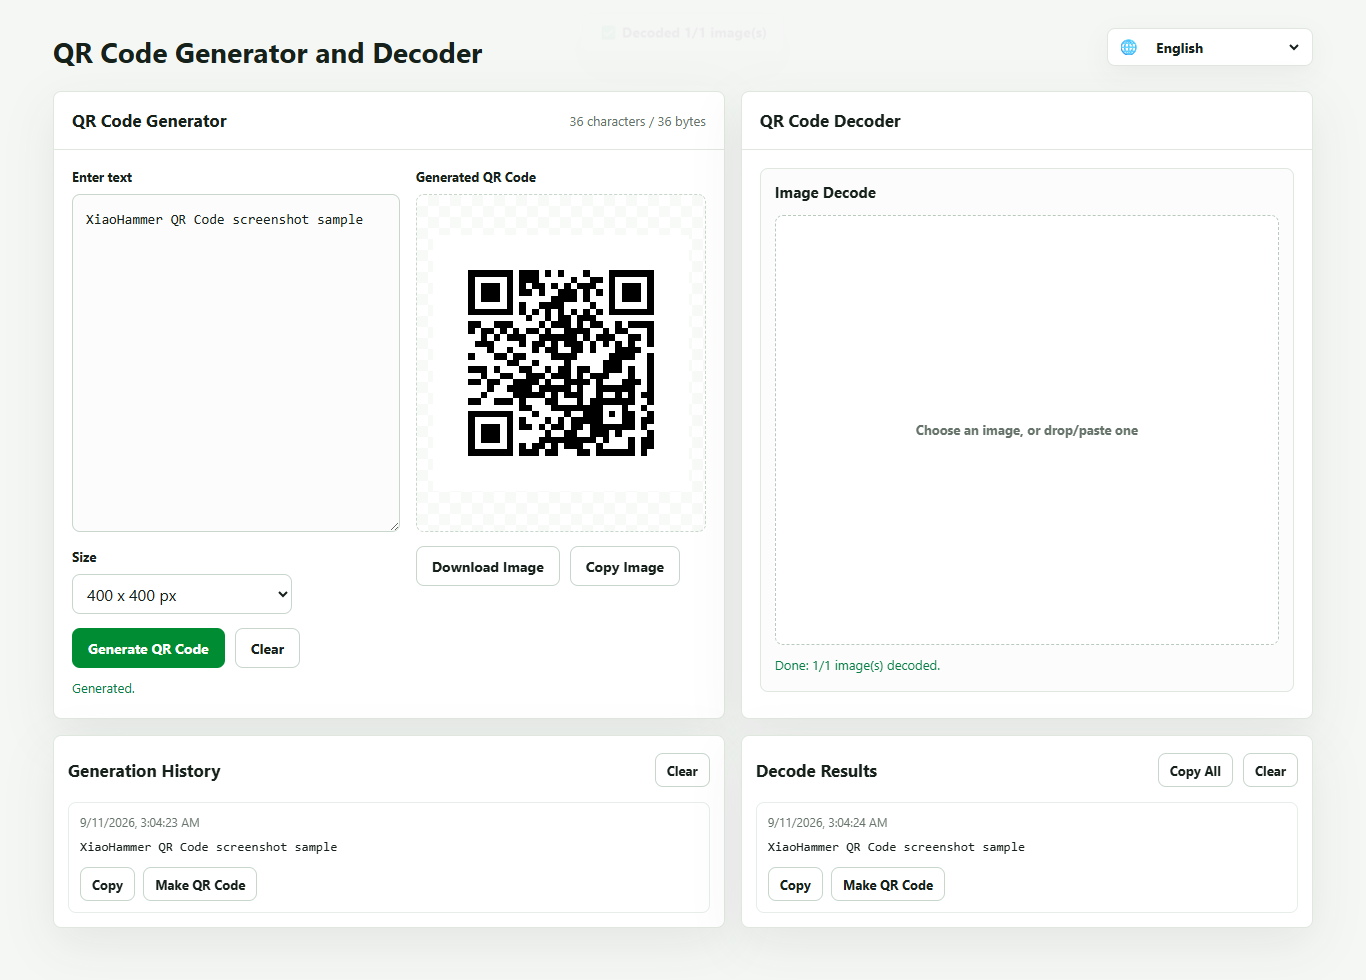
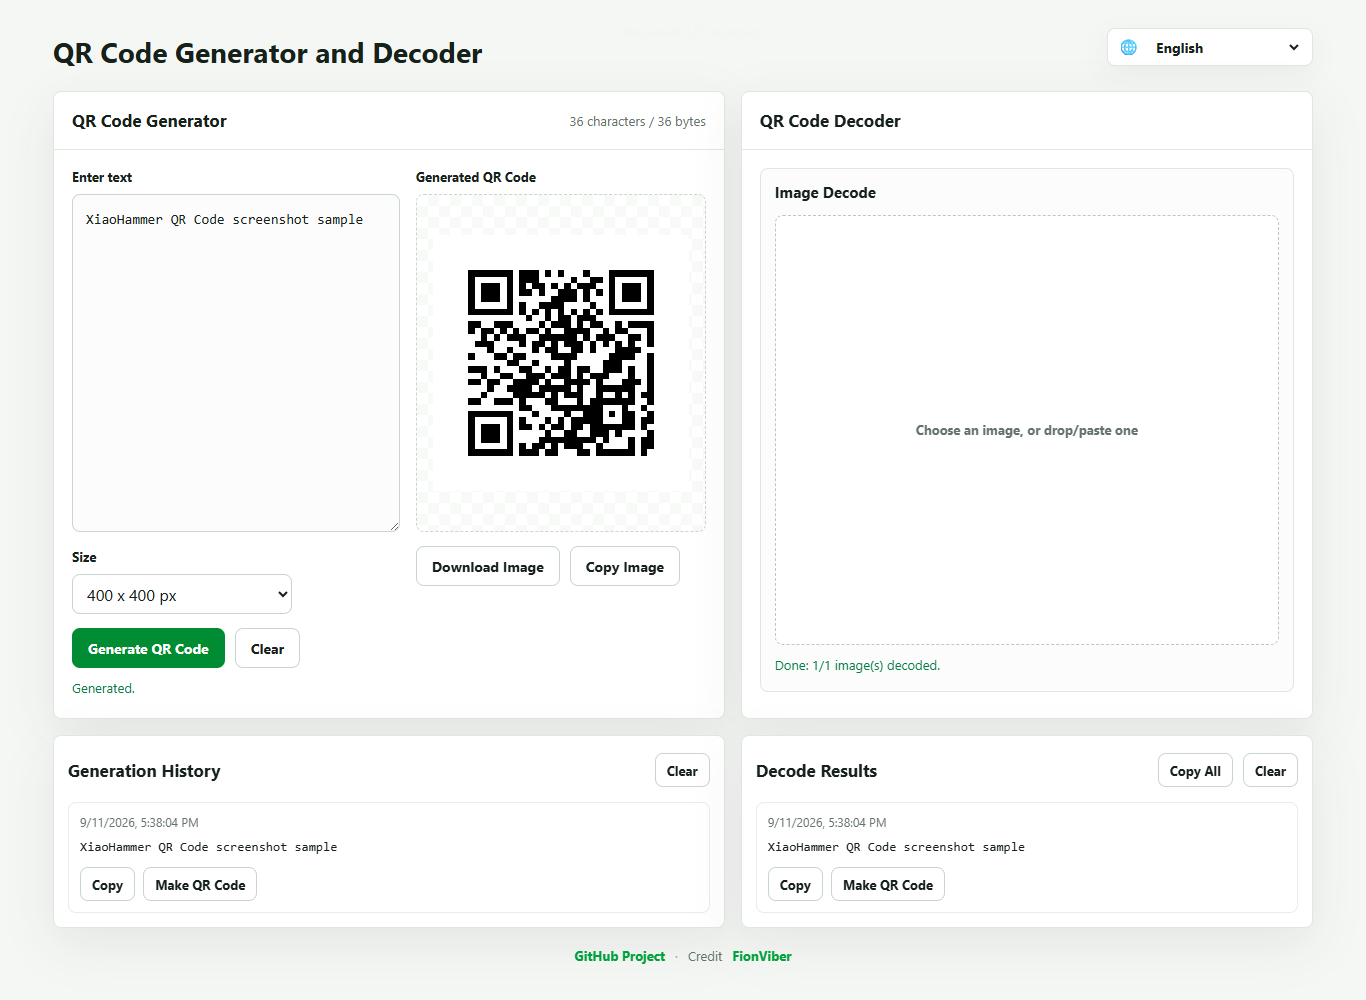
Add app footer credit

diff --git a/index.html b/index.html
@@ -452,6 +452,32 @@
       padding: 14px;
     }
 
+    .site-footer {
+      display: flex;
+      align-items: center;
+      justify-content: center;
+      gap: 10px;
+      margin-top: 18px;
+      color: var(--muted);
+      font-size: 13px;
+      line-height: 1.5;
+    }
+
+    .footer-link {
+      color: var(--primary);
+      font-weight: 650;
+      text-decoration: none;
+    }
+
+    .footer-link:hover {
+      color: var(--primary-dark);
+      text-decoration: underline;
+    }
+
+    .footer-separator {
+      color: #a5aca1;
+    }
+
     .toast {
       position: fixed;
       z-index: 20;
@@ -538,6 +564,10 @@
 
       .record-column {
         padding: 12px;
+      }
+
+      .site-footer {
+        flex-wrap: wrap;
       }
     }
   </style>
@@ -643,6 +673,13 @@
           </div>
         </section>
     </section>
+
+    <footer class="site-footer">
+      <a class="footer-link" href="https://github.com/FionViber/XiaoHammerQRCode" target="_blank" rel="noopener" data-i18n="githubLink">GitHub Project</a>
+      <span class="footer-separator" aria-hidden="true">·</span>
+      <span data-i18n="creditLabel">Credit</span>
+      <a class="footer-link" href="https://github.com/FionViber" target="_blank" rel="noopener">FionViber</a>
+    </footer>
   </main>
 
   <div id="toast" class="toast" role="status" aria-live="polite" aria-atomic="true"></div>

diff --git a/app.js b/app.js
@@ -35,6 +35,8 @@
       copyAllButton: "Copy All",
       noGenerationRecords: "No generation history",
       noDecodeRecords: "No decode results",
+      githubLink: "GitHub Project",
+      creditLabel: "Credit",
       textMeta: "{chars} characters / {bytes} bytes",
       enterTextError: "Enter text before generating.",
       enterTextErrorToast: "⚠ Enter text first",
@@ -97,6 +99,8 @@
       copyAllButton: "复制全部",
       noGenerationRecords: "暂无生成记录",
       noDecodeRecords: "暂无解码结果",
+      githubLink: "GitHub 项目主页",
+      creditLabel: "作者",
       textMeta: "{chars} 字符 / {bytes} 字节",
       enterTextError: "请输入文字后再生成。",
       enterTextErrorToast: "⚠ 请先输入文字",
@@ -159,6 +163,8 @@
       copyAllButton: "全部複製",
       noGenerationRecords: "暫無產生記錄",
       noDecodeRecords: "暫無解碼結果",
+      githubLink: "GitHub 專案首頁",
+      creditLabel: "作者",
       textMeta: "{chars} 字元 / {bytes} 位元組",
       enterTextError: "請輸入文字後再產生。",
       enterTextErrorToast: "⚠ 請先輸入文字",

diff --git a/RELEASE_NOTES.md b/RELEASE_NOTES.md
@@ -1,9 +1,8 @@
-# v1.1.0
+# v1.1.1
 
-Interface and documentation refresh for XiaoHammer QR Code.
+Footer credit update for XiaoHammer QR Code.
 
-- Added lightweight emoji toast feedback for QR generation, clearing, image download, image copying, image decoding, record copying, record clearing, language switching, and link opening.
-- Updated the language selector to match the XiaoHammer shared style and keep the order Auto, English, Simplified Chinese, Traditional Chinese.
-- Kept the Auto option label localized to the current UI language.
-- Reworked the English, Simplified Chinese, and Traditional Chinese README files to match the XiaoHammer README style.
+- Added a GitHub project link to the app footer.
+- Added author credit linking to the FionViber GitHub profile.
+- Localized the footer labels for English, Simplified Chinese, and Traditional Chinese.
 - Regenerated localized README screenshots.

diff --git a/CHANGELOG.md b/CHANGELOG.md
@@ -1,5 +1,11 @@
 # Changelog
 
+## v1.1.1 - 2026-09-11
+
+- Added an app footer with a GitHub project link and FionViber author credit.
+- Localized the footer labels for English, Simplified Chinese, and Traditional Chinese.
+- Regenerated localized README screenshots.
+
 ## v1.1.0 - 2026-09-11
 
 - Added top-center emoji toast feedback for generation, clearing, copying, downloading, decoding, language switching, and record actions.
